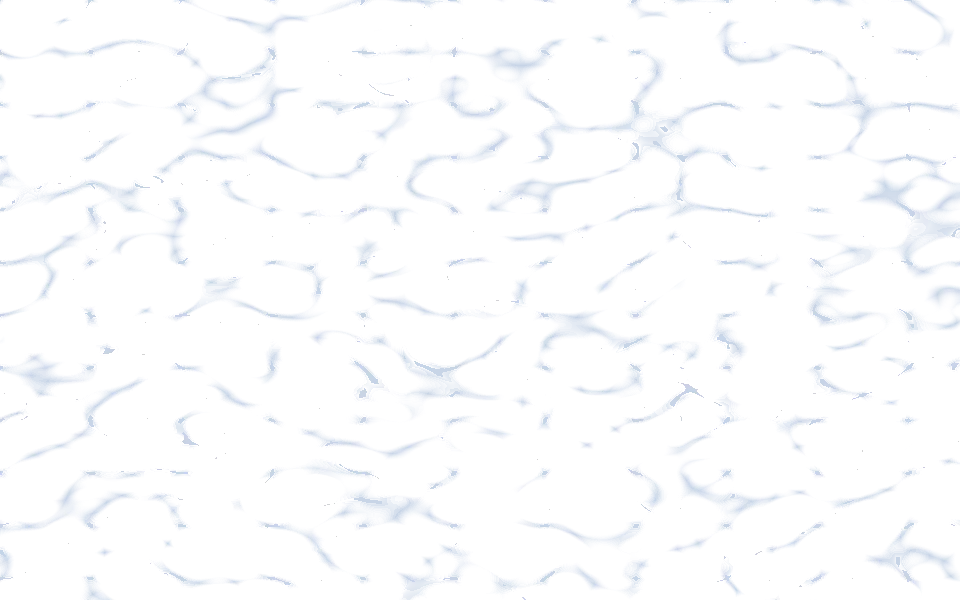
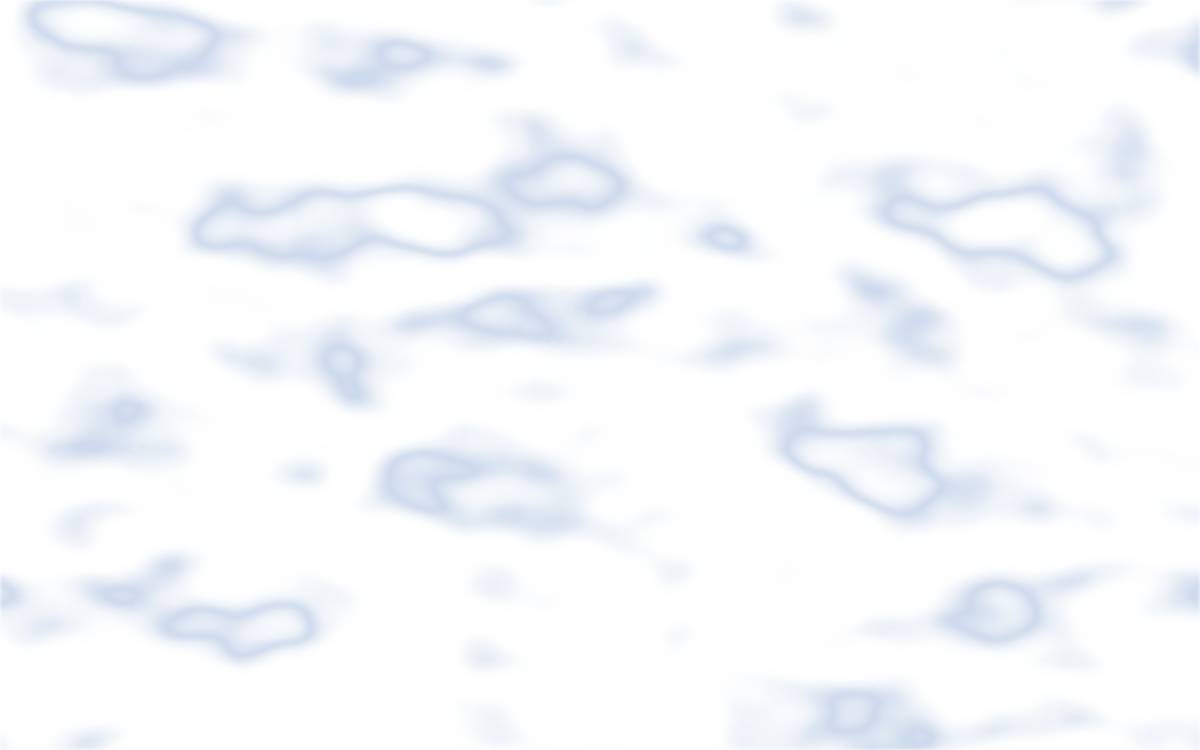
home: softer water background (smoky ripples instead of hard caustic lines)

diff --git a/home/site/style.css b/home/site/style.css
@@ -42,7 +42,7 @@ a:focus-visible { outline: 2px solid var(--accent); outline-offset: 3px; }
 .water { position: fixed; inset: 0; z-index: 0; pointer-events: none; overflow: hidden; opacity: 0.09; }
 .water span {
   position: absolute; left: -15%; top: -15%; width: 130%; height: 130%;
-  background: url(/water.webp) center / cover no-repeat;
+  background: url(/water.webp?v=2) center / cover no-repeat;
   will-change: transform; animation: flow 50s ease-in-out infinite alternate;
 }
 @keyframes flow {

diff --git a/home/site/index.html b/home/site/index.html
@@ -10,7 +10,7 @@
 <link rel="icon" href="/favicon.svg" type="image/svg+xml">
 <link rel="icon" href="/apple-touch-icon.png" type="image/png" sizes="512x512">
 <link rel="apple-touch-icon" href="/apple-touch-icon.png">
-<link rel="stylesheet" href="/style.css?v=7">
+<link rel="stylesheet" href="/style.css?v=8">
 <script src="/fx.js?v=7" defer></script>
 </head>
 <body>
